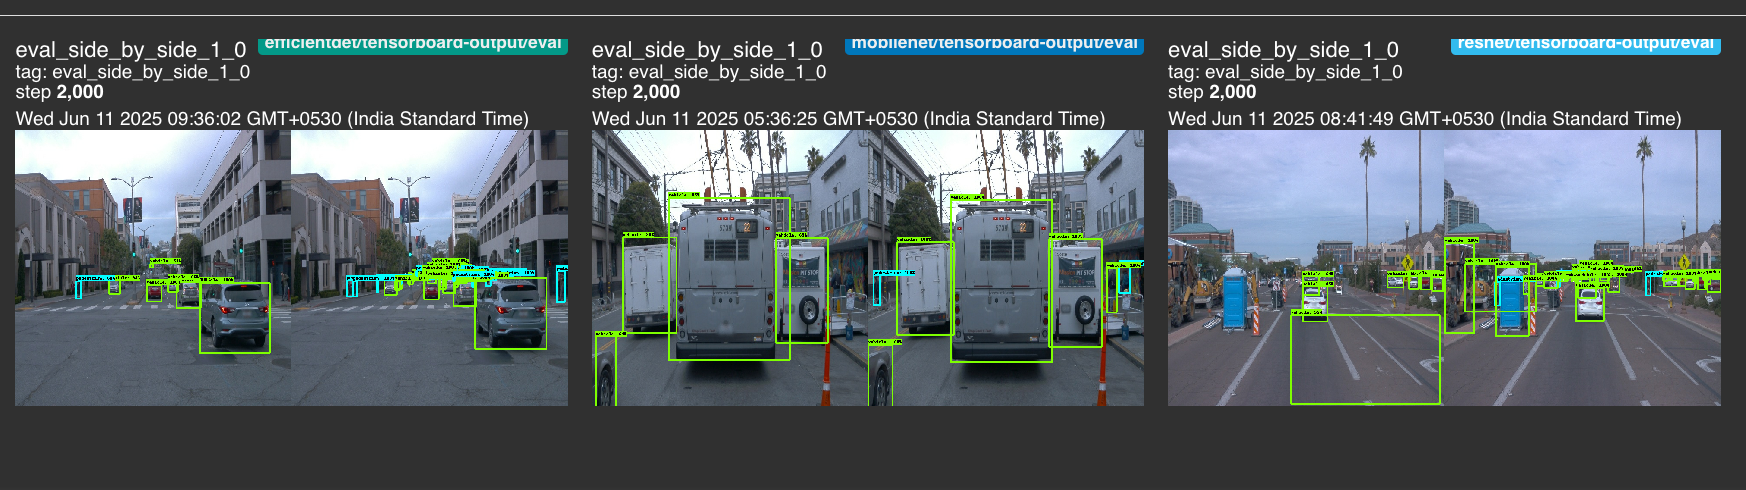
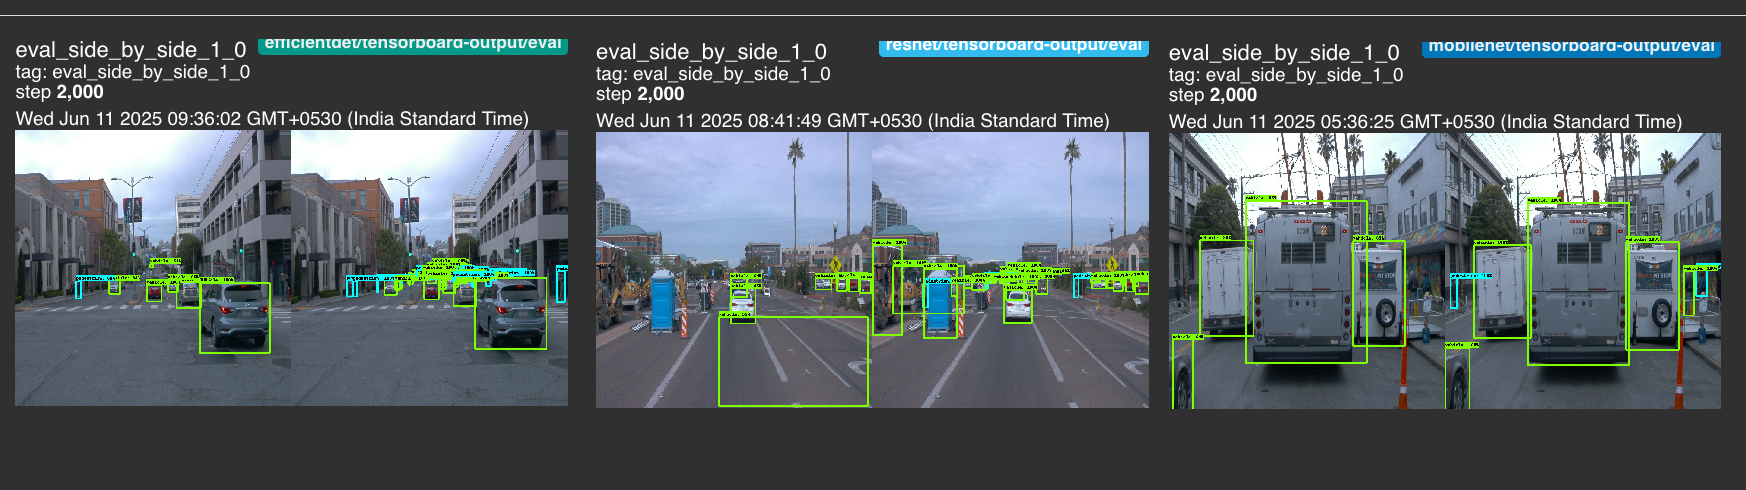
C2-1

diff --git a/C2_CompViz/Writeup.md b/C2_CompViz/Writeup.md
@@ -71,7 +71,7 @@ By applying these models to street view images, objects can be identified and as
 
 ### Object Identification Comparison
 
-|               **Video**                 |           ![EfficientNet](media/output_effieicntdet.gif)                |            ![ResNet50](media/output_resnet.gif)            |         ![Mobilenet](media/output_mobilenet.gif)                |
+|           ![EfficientNet](media/EfficientDet_D1.gif)                |            ![ResNet50](media/SSD_ResNet50_V1_FPN.gif)            |         ![Mobilenet](media/SSD_MobileNet_V2_FPNLite.gif)                |
 
 
 
